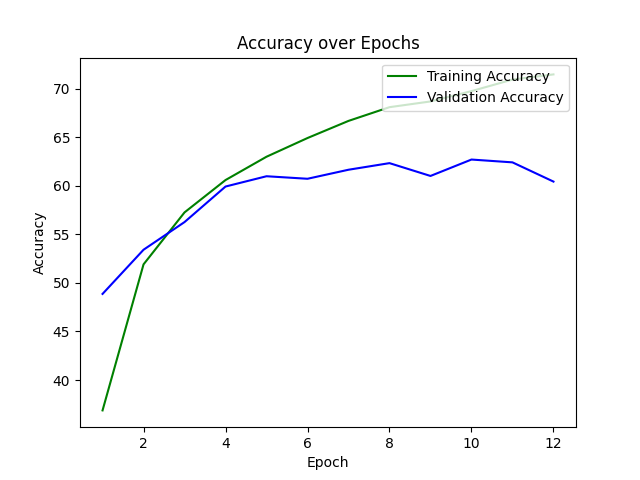
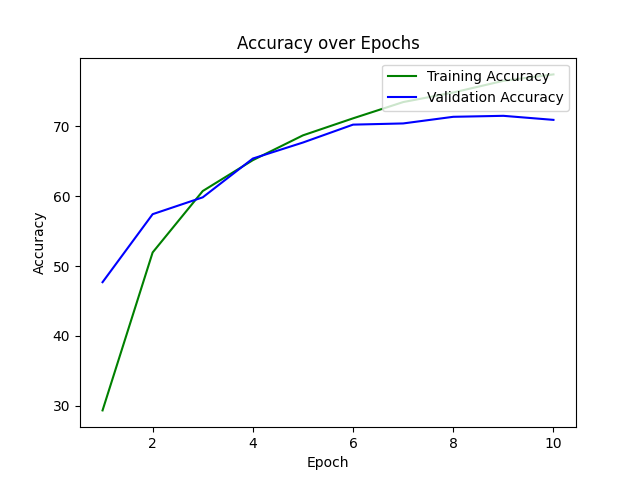
Added third convolutional layer

diff --git a/main.py b/main.py
@@ -48,7 +48,7 @@ classes = ('plane', 'car', 'bird', 'cat',
 
 if __name__ == '__main__':  
     # initializing np arrays to store training and validation losses and setting number of epochs
-    NUM_EPOCHS = 12
+    NUM_EPOCHS = 10
     x = np.arange(1, NUM_EPOCHS+1)
     trainLossArray = np.array([])
     valLossArray = np.array([])
@@ -78,16 +78,18 @@ if __name__ == '__main__':
     class Net(nn.Module):
         def __init__(self):
             super().__init__()
-            self.conv1 = nn.Conv2d(3, 6, 5)
+            self.conv1 = nn.Conv2d(3, 16, 3)
             self.pool = nn.MaxPool2d(2, 2)
-            self.conv2 = nn.Conv2d(6, 16, 5)
-            self.fc1 = nn.Linear(16 * 5 * 5, 120)
+            self.conv2 = nn.Conv2d(16, 32, 3)
+            self.conv3 = nn.Conv2d(32, 64, 3)
+            self.fc1 = nn.Linear(256, 120)
             self.fc2 = nn.Linear(120, 84)
             self.fc3 = nn.Linear(84, 10)
 
         def forward(self, x):
             x = self.pool(F.relu(self.conv1(x)))
             x = self.pool(F.relu(self.conv2(x)))
+            x = self.pool(F.relu(self.conv3(x)))
             x = torch.flatten(x, 1) # flatten all dimensions except batch
             x = F.relu(self.fc1(x))
             x = F.relu(self.fc2(x))
@@ -189,22 +191,27 @@ if __name__ == '__main__':
     
  
     # plotting epoch losses
-    plt.title("Training and Validation Losses")
-    plt.xlabel("Epoch")
-    plt.ylabel("Loss")
-    plt.plot(x, trainLossArray,  label = "Training Losses", color ="green")
-    plt.plot(x, valLossArray, label = "Validation Losses", color ="blue")
-    plt.legend(loc="upper right")
-    plt.show()
+    def displaylosses():
+        plt.title("Training and Validation Losses")
+        plt.xlabel("Epoch")
+        plt.ylabel("Loss")
+        plt.plot(x, trainLossArray,  label = "Training Losses", color ="green")
+        plt.plot(x, valLossArray, label = "Validation Losses", color ="blue")
+        plt.legend(loc="upper right")
+        plt.show()
 
     #plotting accuracy
-    plt.title("Accuracy over Epochs")
-    plt.xlabel("Epoch")
-    plt.ylabel("Accuracy")
-    plt.plot(x, trainAccArray,  label = "Training Accuracy", color ="green")
-    plt.plot(x, valAccArray, label = "Validation Accuracy", color ="blue")
-    plt.legend(loc="upper right")
-    plt.show()
+    def displayacc():
+        plt.title("Accuracy over Epochs")
+        plt.xlabel("Epoch")
+        plt.ylabel("Accuracy")
+        plt.plot(x, trainAccArray,  label = "Training Accuracy", color ="green")
+        plt.plot(x, valAccArray, label = "Validation Accuracy", color ="blue")
+        plt.legend(loc="upper right")
+        plt.show()
+
+    displaylosses()
+    displayacc()
     """
     #saving and loading the trained model
     PATH = './cifar_net.pth'
